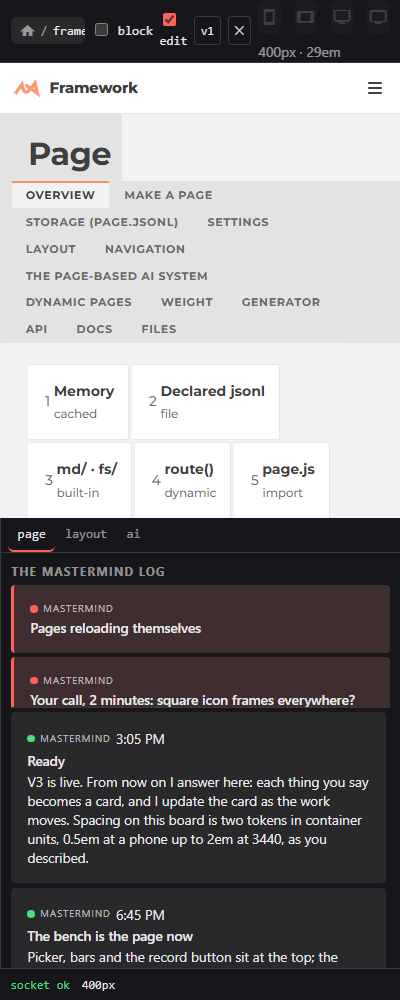
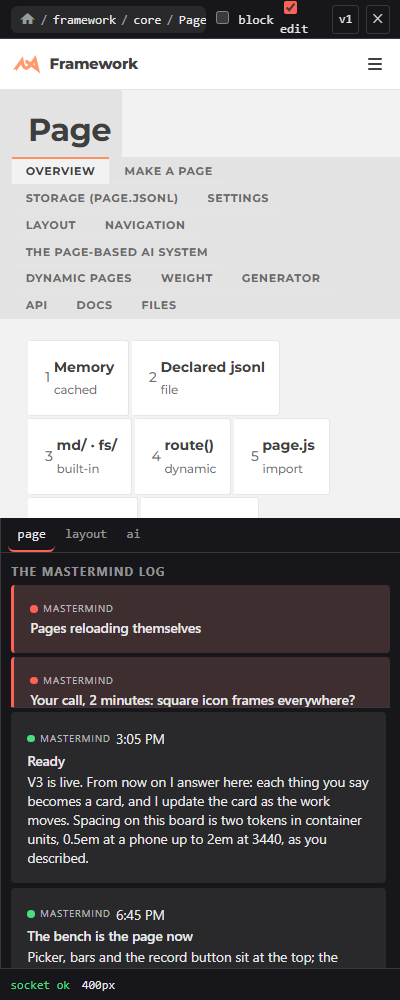
Shell: publish:false for demo frames; DevShell phone head in util layer; docs match code

Changed region(s): [[0.0, 0.0, 1.0, 0.496], [0.63, 0.434, 0.78, 0.496]]

diff --git a/public/framework/dev/DevShell/DevShell.css b/public/framework/dev/DevShell/DevShell.css
@@ -50,8 +50,7 @@
 	   rule above left unscoped, both sides were 288px boxes stacked over the page. */
 	@media (width < 34em) {
 		.dev-shell-root .core-shell-left,
-		.dev-shell-root .dev-shell-hint,
-		.dev-shell-root .dev-width { display: none; }
+		.dev-shell-root .dev-shell-hint { display: none; }
 		.dev-shell-root .core-shell-right { max-height: 45vh; width: auto; }
 		.dev-shell-root .core-shell-grid, .dev-shell-root.core-shell-grid { grid-template-columns: minmax(0, 1fr); }
 	}
@@ -116,4 +115,12 @@
 	.dev-shell-val.ok { color: var(--ok); }
 	.dev-shell-val.warn { color: var(--warn); }
 	.dev-shell-val.off { color: var(--subtle); }
+}
+
+/* ⚠ `util`, because framework.css's `.flex` on the same box lives there and a
+   `theme` rule cannot out-rank it at any specificity (review, 2026-09-30). */
+@layer util {
+	@media (width < 34em) {
+		.dev-shell-root .dev-width { display: none; }
+	}
 }

diff --git a/public/framework/core/Shell/page.js b/public/framework/core/Shell/page.js
@@ -16,7 +16,7 @@ export default new Doc({
 
 	subject: Shell,
 
-	properties: "content frame dark name",
+	properties: "content frame publish dark name",
 
 	methods: "render header footer left right main slot grab size restore_sizes store apply_dark watch_frame",
 
@@ -106,6 +106,7 @@ export default new Doc({
 						right: fill("right"),
 						footer: fill("footer"),
 						frame: true,
+						publish: false,
 					});
 
 					// A real `frame` shell is `position: fixed`, which would break out

diff --git a/public/framework/core/Shell/Shell.js b/public/framework/core/Shell/Shell.js
@@ -191,6 +191,11 @@ export class CoreShell extends View {
 			["foot", "bottom", "offsetHeight"],
 		];
 
+		// `publish: false` keeps the frame look without pushing the page — for a
+		// frame shown as a DEMO inside a box (core/Shell's own page did push the
+		// whole site in by 192px until this existed; review, 2026-09-30).
+		if (this.publish === false) return;
+
 		for (const [area, token, prop] of regions){
 			root.style.setProperty(`--shell-${token}`, "0px");
 

diff --git a/public/framework/dev/DevShell/doc/decisions.md b/public/framework/dev/DevShell/doc/decisions.md
@@ -24,10 +24,9 @@ rails with no DevShell edit.
 
 `route` itself is not an exported function of `tools.js` — only the whole `tabs` array is. Rather
 than pull it out by array position (fragile: renumber `tools.js`'s own array and the wrong section
-draws), the left side calls every section in the `page` tab. That is slightly more than the brief's
-two named things, but it is all real reuse-by-import with no fragile indexing, and the extra two
-or three lines (`says`, `server`, `xray`, `jump`) are the same short lines the old rail already
-shows on its own `page` tab.
+draws), the left side first called every section in the `page` tab. It now picks `route` and
+`structure` out of that list BY NAME (the function's own name, not its position), so the left
+side is exactly the two things the brief named and a renumbered `tools.js` still draws them.
 
 ## Three real layout bugs a reviewer caught in the first screenshot, not a claim to take on faith
 

diff --git a/public/framework/core/Shell/readme.md b/public/framework/core/Shell/readme.md
@@ -33,7 +33,11 @@ here ever names a colour. `dark: ["left", "right"]` darkens only those two boxes
 `frame: true` turns the shell into the window's own frame — `position: fixed; inset: 0`, `main`
 an empty hole the real page shows through — and writes each region's own size onto `<html>` as
 `--shell-top` / `--shell-left` / `--shell-right` / `--shell-bottom`, so a page underneath can pad
-itself in by them. This is what [`dev/DevShell`](/framework/dev/) is built on.
+itself in by them. This is what [`dev/DevShell`](/framework/dev/DevShell/) is built on. A frame shown
+as a demo inside a box passes `publish: false`, so it keeps the look but never pushes the page.
+
+Not the same thing as [`/layouts/shell/`](/layouts/shell/): that lab is one page's own resizable
+design-tree sidebar; this is the general region system any page can wrap itself in.
 
 ## Watch out
 

diff --git a/public/framework/dev/DevShell/readme.md b/public/framework/dev/DevShell/readme.md
@@ -14,7 +14,7 @@ dark mode shell around the entire site… let's use the dev bar and kind of merg
 
 ## Watch out
 
-- **It is `new Shell({ frame: true, dark: true, … })`, not a second rail system** —
+- **It is `new Shell({ frame: true, dark: ["head", "left", "right", "foot"], … })`, not a second rail system** —
   [`core/Shell`](/framework/core/Shell/) does the grid, the resizable rails, the 34em stack and the
   four `--shell-*` push tokens; this module only supplies what goes in each region and its own thin
   CSS. Read `core/Shell`'s own readme first if the grid itself looks wrong — it is almost certainly
